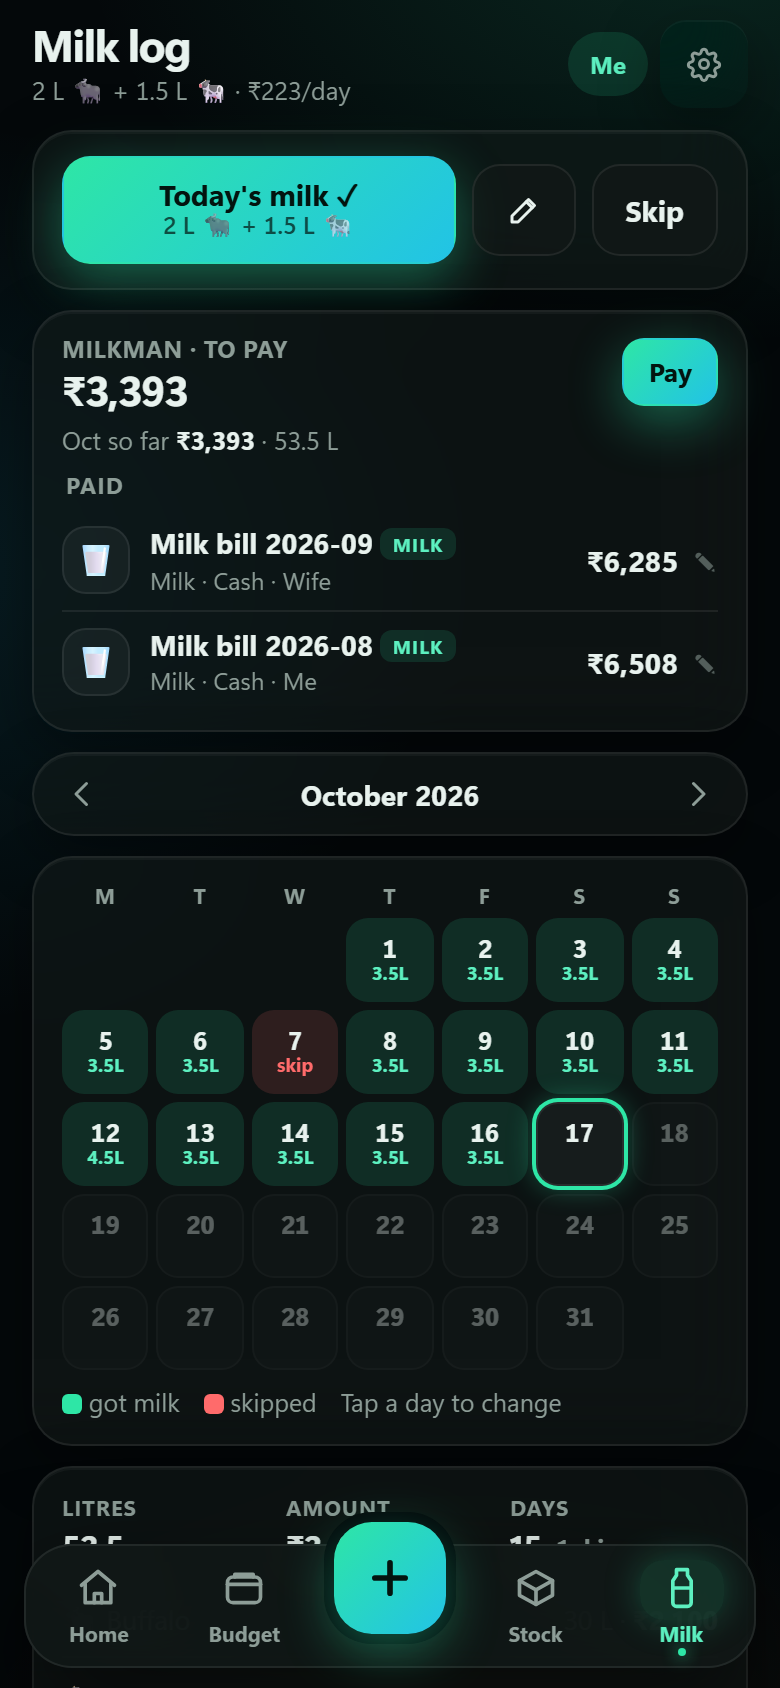
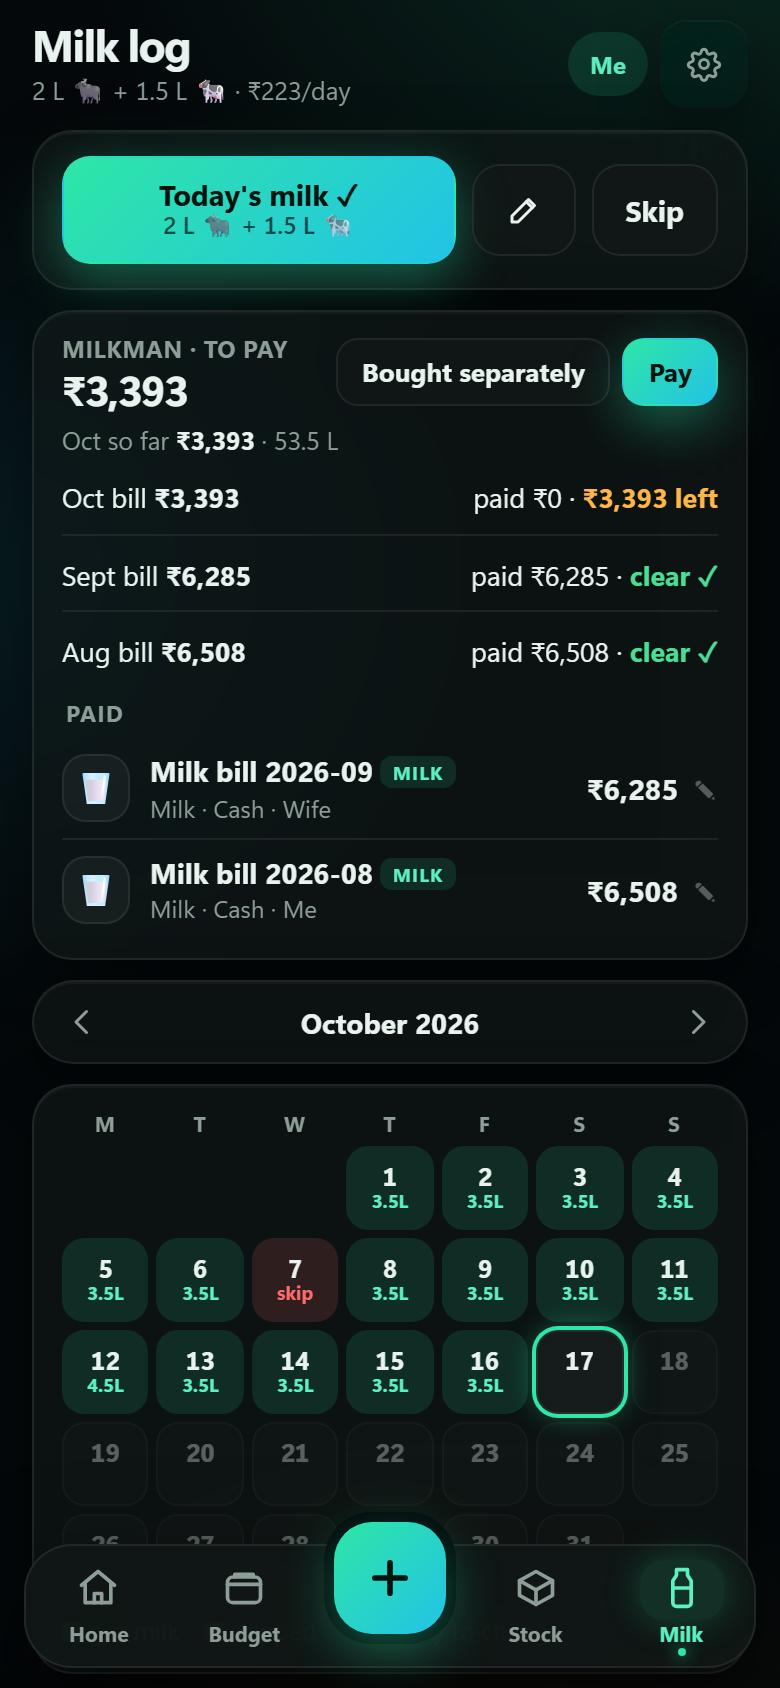
v2.2.0: milk bill paid for a month; Bought separately; per-month milk table

diff --git a/js/views/milk.js b/js/views/milk.js
@@ -74,13 +74,19 @@ function balanceCard(w) {
     <div class="row between">
       <div><p class="label">Milkman · to pay</p>
         <p class="big2 num ${L.balance > 0 ? '' : 'ok-text'}" data-test="milk-due">${L.balance > 0 ? money(L.balance) : L.balance < 0 ? `${money(-L.balance)} advance` : 'All paid ✓'}</p></div>
-      ${w && L.balance > 0 ? '<button class="btn primary small" data-act="pay" data-test="pay-milk">Pay</button>' : ''}
+      <div class="row gap-s">
+        ${w ? '<button class="btn ghost small" data-act="extra" data-test="extra-milk">Bought separately</button>' : ''}
+        ${w && L.balance > 0 ? '<button class="btn primary small" data-act="pay" data-test="pay-milk">Pay</button>' : ''}
+      </div>
     </div>
     <div class="bal-lines">
       <span>${monthShortName(mk)} so far <b>${money(L.thisMonth)}</b> · ${number(L.thisMonthLitres)} L</span>
       ${L.earlier > 0 ? `<span class="warn-text" data-test="milk-earlier">Earlier unpaid <b>${money(L.earlier)}</b></span>`
         : L.earlier < 0 ? `<span class="ok-text">Paid ahead <b>${money(-L.earlier)}</b></span>` : ''}
     </div>
+    ${L.months.length ? `<div class="list" data-test="milk-months">${L.months.slice(-4).reverse().map((r) => `<div class="mv-row" data-month="${r.mk}">
+      <span>${monthShortName(r.mk)} bill <b>${money(r.bill)}</b></span><span class="num">paid ${money(r.paid)} · ${r.left > 0 ? `<b class="warn-text">${money(r.left)} left</b>` : r.left < 0 ? `<b class="ok-text">${money(-r.left)} ahead</b>` : '<b class="ok-text">clear ✓</b>'}</span></div>`).join('')}</div>` : ''}
+    ${L.extras.length ? `<h3 class="mini-title">Bought separately</h3><div class="list" data-test="milk-extras">${L.extras.slice(0, 2).map(entryRow).join('')}</div>` : ''}
     ${L.payments.length ? `<h3 class="mini-title">Paid</h3><div class="list" data-test="milk-payments">${L.payments.slice(0, 3).map(entryRow).join('')}</div>` : ''}
   </section>`;
 }
@@ -182,20 +188,58 @@ export function openMilkDay(date) {
   el.querySelector('[data-clear]')?.addEventListener('click', async () => { await milk.clearDay(date); closeSheet(true); toast('Cleared'); });
 }
 
-// Pay the milkman: full balance pre-filled, change it for a part payment.
+// Pay the milkman for a month: the oldest unpaid month is pre-filled; change month or amount (part payment).
 export function openPayMilk() {
   const L = milk.ledger();
+  const opts = [...new Set([...L.months.filter((m) => m.left > 0).map((m) => m.mk), L.payMonth])].sort();
+  const leftOf = (k) => Math.max(0, (L.months.find((m) => m.mk === k) || { left: 0 }).left);
   const el = openSheet(`
     <form class="stack" data-test="pay-sheet" novalidate>
       <h2 class="sheet-title">🥛 Pay milkman</h2>
-      <p class="small">Due <b>${money(Math.max(0, L.balance))}</b>${L.earlier > 0 ? ` (incl. earlier ${money(L.earlier)})` : ''}. Change the amount for a part payment — the rest carries over.</p>
+      <label class="small">For the bill of
+        <select name="month" class="input" data-test="pay-month" aria-label="Bill month">${opts.map((k) => `<option value="${k}" ${k === L.payMonth ? 'selected' : ''}>${monthShortName(k)} ${k.slice(0, 4)}</option>`).join('')}</select></label>
+      <p class="small">Left for that month <b data-left>${money(leftOf(L.payMonth))}</b>. Change the amount for a part payment — the rest stays due. It counts in your budget on the day you pay.</p>
       <label class="amount-field"><span>₹</span>
-        <input name="amount" type="number" inputmode="decimal" min="0" step="any" value="${Math.max(0, L.balance)}" aria-label="Amount paid"></label>
+        <input name="amount" type="number" inputmode="decimal" min="0" step="any" value="${leftOf(L.payMonth)}" aria-label="Amount paid"></label>
       <div class="seg" role="radiogroup" aria-label="Mode">
         <button type="button" class="on" data-mode="Cash">Cash</button><button type="button" data-mode="UPI">UPI</button>
       </div>
       <input name="date" class="input" type="date" value="${today()}" aria-label="Date">
       <button class="btn primary" type="submit" data-save>${icon('check')} Paid</button>
+    </form>`);
+  const f = el.querySelector('form');
+  let mode = 'Cash';
+  f.month.addEventListener('change', () => { f.amount.value = leftOf(f.month.value); el.querySelector('[data-left]').textContent = money(leftOf(f.month.value)); });
+  el.querySelectorAll('[data-mode]').forEach((b) => b.addEventListener('click', () => {
+    mode = b.dataset.mode;
+    el.querySelectorAll('[data-mode]').forEach((x) => x.classList.toggle('on', x === b));
+  }));
+  f.addEventListener('submit', async (ev) => {
+    ev.preventDefault();
+    const amount = Number(f.amount.value);
+    if (!(amount > 0)) { f.amount.focus(); return; }
+    const forMonth = f.month.value;
+    const e = await milk.pay(amount, f.date.value || today(), mode, forMonth);
+    closeSheet(true);
+    const left = milk.ledger().months.find((m) => m.mk === forMonth)?.left || 0;
+    toast(`Paid ${money(amount)} for ${monthShortName(forMonth)}${left > 0 ? ` · ${money(left)} left` : ' · clear'} ✓`, { undo: () => store.remove('entries', e.id) });
+  });
+}
+
+// Milk bought separately (shop packet): in the budget, but the milkman's bill stays the same.
+export function openExtraMilk() {
+  const el = openSheet(`
+    <form class="stack" data-test="extra-sheet" novalidate>
+      <h2 class="sheet-title">🥛 Bought separately</h2>
+      <p class="small">A packet or extra milk you paid for yourself. It counts in your budget but does <b>not</b> reduce the milkman's bill.</p>
+      <label class="amount-field"><span>₹</span>
+        <input name="amount" type="number" inputmode="decimal" min="0" step="any" aria-label="Amount paid"></label>
+      <input name="note" class="input" placeholder="Note (optional)" aria-label="Note">
+      <div class="seg" role="radiogroup" aria-label="Mode">
+        <button type="button" class="on" data-mode="Cash">Cash</button><button type="button" data-mode="UPI">UPI</button>
+      </div>
+      <input name="date" class="input" type="date" value="${today()}" aria-label="Date">
+      <button class="btn primary" type="submit" data-save>${icon('check')} Save</button>
     </form>`);
   const f = el.querySelector('form');
   let mode = 'Cash';
@@ -207,10 +251,9 @@ export function openPayMilk() {
     ev.preventDefault();
     const amount = Number(f.amount.value);
     if (!(amount > 0)) { f.amount.focus(); return; }
-    const e = await milk.pay(amount, f.date.value || today(), mode);
+    const e = await milk.buyExtra(amount, f.date.value || today(), mode, f.note.value.trim());
     closeSheet(true);
-    const left = milk.ledger().balance;
-    toast(`Paid ${money(amount)}${left > 0 ? ` · ${money(left)} left` : ' · all clear'} ✓`, { undo: () => store.remove('entries', e.id) });
+    toast(`Milk ${money(amount)} saved ✓`, { undo: () => store.remove('entries', e.id) });
   });
 }
 
@@ -224,6 +267,7 @@ export function bind(root, rerender) {
     if (act === 'tick') { bump(t); await milk.tickToday(); toast(`Milk ${milk.defaultLabel()} logged ✓`, { action: { label: 'Change', fn: () => openMilkDay(today()) } }); }
     else if (act === 'skip-today') { await milk.skipDay(today()); toast('Skipped today'); }
     else if (act === 'pay') openPayMilk();
+    else if (act === 'extra') openExtraMilk();
     else if (act === 'month-prev') { state.mk = shiftMonth(state.mk, -1); rerender(); }
     else if (act === 'month-next') { state.mk = shiftMonth(state.mk, 1); rerender(); }
     else if (t.dataset.day) openMilkDay(t.dataset.day);

diff --git a/js/logic/milk.js b/js/logic/milk.js
@@ -9,6 +9,7 @@ export const DEFAULT_TYPES = [
   { id: 'buffalo', name: 'Buffalo', emoji: '🐃', litres: 2, rate: 70 },
   { id: 'cow', name: 'Cow', emoji: '🐄', litres: 1.5, rate: 55 },
 ];
+export const EXTRA = 'milk-extra';
 export const DEFAULT_MILK = { types: DEFAULT_TYPES, asked: false };
 
 // Settings with the types list. Old single-milk settings {litres, rate} become one "Milk" type.
@@ -126,27 +127,55 @@ export function month(mk = monthKey()) {
 
 // Milkman account, carried across months:
 //   owed = every delivered day up to today (each type: litres × that day's rate)
-//   paid = every spend in the Milk category (payments, older monthly bills, anything you gave him)
+//   paid = Milk-category spends that are payments (not "bought separately", source 'milk-extra')
 //   balance = owed − paid; "earlier" = what was still unpaid before this month (negative = paid ahead)
+//   months = one line per month: bill, paid, left. A payment "for October" (ref '2026-10') goes to October;
+//   older payments with no month fill the oldest unpaid month first.
 export function ledger(t = today()) {
   const mk = monthKey(t);
   const days = store.list('milk').filter((d) => !d.skip && d.id <= t);
   const owed = days.reduce((s, d) => s + dayCost(d), 0);
   const thisDays = days.filter((d) => d.id.startsWith(mk));
   const thisMonth = thisDays.reduce((s, d) => s + dayCost(d), 0);
-  const payments = store.list('entries').filter((e) => e.cat === MILK_CAT && e.date <= t)
+  const spends = store.list('entries').filter((e) => e.cat === MILK_CAT && e.date <= t)
     .sort((a, b) => b.date.localeCompare(a.date) || (b.createdAt - a.createdAt));
+  const payments = spends.filter((e) => e.source !== EXTRA);
+  const extras = spends.filter((e) => e.source === EXTRA);
   const paid = payments.reduce((s, e) => s + Number(e.amount || 0), 0);
+
+  const rows = {};
+  const row = (k) => rows[k] || (rows[k] = { mk: k, bill: 0, paid: 0 });
+  for (const d of days) row(d.id.slice(0, 7)).bill += dayCost(d);
+  let pool = 0;
+  for (const e of payments) {
+    if (e.source === 'milk-pay' && /^\d{4}-\d{2}$/.test(e.ref || '')) row(e.ref).paid += Number(e.amount || 0);
+    else pool += Number(e.amount || 0);
+  }
+  const months = Object.values(rows).sort((a, b) => a.mk.localeCompare(b.mk));
+  for (const m of months) { // payments with no month (older ones) fill the oldest unpaid month first
+    const take = Math.min(pool, Math.max(0, m.bill - m.paid));
+    m.paid += take;
+    pool -= take;
+  }
+  if (pool > 0 && months.length) months[months.length - 1].paid += pool;
+  for (const m of months) { m.bill = Math.round(m.bill); m.paid = Math.round(m.paid); m.left = m.bill - m.paid; }
   return {
     owed: Math.round(owed), paid: Math.round(paid), balance: Math.round(owed - paid),
     thisMonth: Math.round(thisMonth), thisMonthLitres: thisDays.reduce((s, d) => s + dayLitres(d), 0),
-    earlier: Math.round(owed - thisMonth - paid), payments,
+    earlier: Math.round(owed - thisMonth - paid), payments, extras, months,
+    payMonth: (months.find((m) => m.left > 0) || { mk }).mk, // oldest month with something left to pay
   };
 }
 
-// Record money given to the milkman (full or part). It is a spend in the Milk category.
-export async function pay(amount, date = today(), mode = 'Cash') {
-  return addEntry({ date, amount, cat: MILK_CAT, mode, note: 'Paid milkman', source: 'milk-pay' });
+// Record money given to the milkman (full or part) "for" a month. It is a spend in the Milk category,
+// counted in the budget on the day it is paid.
+export async function pay(amount, date = today(), mode = 'Cash', forMonth = null) {
+  return addEntry({ date, amount, cat: MILK_CAT, mode, note: forMonth ? `Paid milkman · ${forMonth} bill` : 'Paid milkman', source: 'milk-pay', ref: forMonth || undefined });
+}
+
+// Milk bought separately (shop packet etc.): counts in the budget but does NOT change what the milkman is owed.
+export async function buyExtra(amount, date = today(), mode = 'Cash', note = '') {
+  return addEntry({ date, amount, cat: MILK_CAT, mode, note: note || 'Milk bought separately', source: EXTRA });
 }
 
 // Older monthly "bill" entries (kept for old data; payments replaced this).

diff --git a/tests/unit.spec.js b/tests/unit.spec.js
@@ -161,3 +161,26 @@ test('login with just a name adds the family domain', async () => {
   expect(loginEmail('me@test.com')).toBe('me@test.com');
   expect(loginEmail('')).toBe('');
 });
+
+test('milk: pay for a month, bought-separately does not reduce the bill, old payments fill oldest month', async () => {
+  const milk = await import('../js/logic/milk.js');
+  store.hydrate({ entries: [], milk: [], meta: [] });
+  // Oct and Nov, 1 buffalo-ish day each: Oct 3 days × ₹100, Nov 2 days × ₹100
+  for (const d of ['2026-10-01', '2026-10-02', '2026-10-03', '2026-11-01', '2026-11-02']) {
+    await store.replace('milk', { id: d, items: { x: { litres: 1, rate: 100 } }, litres: 1, skip: false });
+  }
+  let L = milk.ledger('2026-11-02');
+  expect(L.months.map((m) => [m.mk, m.bill, m.left])).toEqual([['2026-10', 300, 300], ['2026-11', 200, 200]]);
+  expect(L.payMonth).toBe('2026-10');
+  await milk.pay(250, '2026-11-01', 'Cash', '2026-10');
+  await milk.buyExtra(66, '2026-11-02');
+  L = milk.ledger('2026-11-02');
+  expect(L.months.map((m) => m.left)).toEqual([50, 200]);
+  expect(L.balance).toBe(250); // 500 owed − 250 paid; the ₹66 packet is not a payment
+  expect(L.extras).toHaveLength(1);
+  // a payment with no month (older data) fills the oldest unpaid month first
+  await budget.addEntry({ date: '2026-11-02', amount: 100, cat: budget.MILK_CAT, mode: 'Cash', note: 'old' });
+  L = milk.ledger('2026-11-02');
+  expect(L.months.map((m) => m.left)).toEqual([0, 150]);
+  expect(L.payMonth).toBe('2026-11');
+});

diff --git a/tests/kozy.spec.js b/tests/kozy.spec.js
@@ -386,8 +386,15 @@ test('milk: buffalo + cow with own rates, one-tap tick, Change, per-type totals,
   await page.locator('[data-test="pay-sheet"] input[name="amount"]').fill('300');
   await page.locator('[data-test="pay-sheet"] [data-save]').click();
   await expect(page.locator('[data-test="milk-due"]')).toHaveText('₹145');
+  await expect(page.locator('[data-test="milk-months"]')).toContainText('₹145 left');
+  // bought separately: not a payment — the milkman's balance stays
+  await page.locator('[data-test="extra-milk"]').click();
+  await page.locator('[data-test="extra-sheet"] input[name="amount"]').fill('66');
+  await page.locator('[data-test="extra-sheet"] [data-save]').click();
+  await expect(page.locator('[data-test="milk-due"]')).toHaveText('₹145');
+  await expect(page.locator('[data-test="milk-extras"]')).toContainText('₹66');
   await go(page, T, 'budget');
-  await expect(tile(page, 'Milk')).toContainText('₹300');
+  await expect(tile(page, 'Milk')).toContainText('₹366');
   await go(page, T, 'home');
   await expect(page.locator('[data-test="chip-milk"]')).toContainText('Milk ✓ 4 L');
 

diff --git a/sw.js b/sw.js
@@ -1,7 +1,7 @@
 // Kozy service worker — makes the app open with no internet.
 // Strategy: network first for our own files (so updates show up), cache as fallback (offline).
 // Bump VERSION when files change so old caches are cleaned.
-const VERSION = 'kozy-v2.1.2';
+const VERSION = 'kozy-v2.2.0';
 const SHELL = [
   './',
   'index.html',

diff --git a/js/config.js b/js/config.js
@@ -44,4 +44,4 @@ export const LOCAL_PREVIEW_USERS = {
   viewer: { label: 'Viewer', role: 'viewer' },
 };
 
-export const APP_VERSION = '2.1.2';
+export const APP_VERSION = '2.2.0';

diff --git a/DECISIONS.md b/DECISIONS.md
@@ -151,4 +151,6 @@ Some replace v1 decisions above (marked ♻).
 | 93 | **Bill photo scan removed** (the 📷 button, the Scan bill quick action, the scanner code and its tests). Home quick actions are now Add · Milk · Shop. | You don't need it for now; one less thing to maintain and no CDN download. |
 | 94 | **Home has ◀ month ▶** like Budget. Past/future months show what was saved or went over (no "days left"); leaving Home and coming back returns to this month. | Look back at last month without opening Budget. |
 | 95 | **iPhone Home Screen app keeps you signed in:** login is saved in IndexedDB first (then localStorage), and Kozy asks the phone not to clear it. Inside the Home Screen app the Google button is replaced by a note to use email + password. | The Home Screen app has its own storage, separate from Safari; Google sign-in leaves the app, finishes in Safari, and the app stays signed out ("login again and again"). Sign in once with email + password in the app and it stays. |
+| 97 | **Milk bill is paid "for a month".** Pay sheet has "For the bill of <month>" (oldest unpaid pre-filled); the money is a Milk spend counted in the budget on the day it is paid (Nov 1 pay for October → November's budget). Milk screen shows each month: bill · paid · left. Payments with no month (older data) fill the oldest unpaid month first. | October's bill is paid on 1 Nov; you want to see "October paid" and still have it in November's cash. |
+| 98 | **"Bought separately"** (milk-extra) on the Milk screen: a Milk spend that counts in the budget but is NOT a payment to the milkman. Extra litres from the milkman still go through the day editor (+/−) into that month's bill. | A shop packet used to reduce what was owed to the milkman by mistake. |
 | 96 | **Settings → Account → Set a password** for Google accounts (same account, same data): then email + password also works in the iPhone Home Screen app. The Home Screen login screen tells you how. | Google can't sign in inside the Home Screen app, so a Google account needs a password to use it there. |
